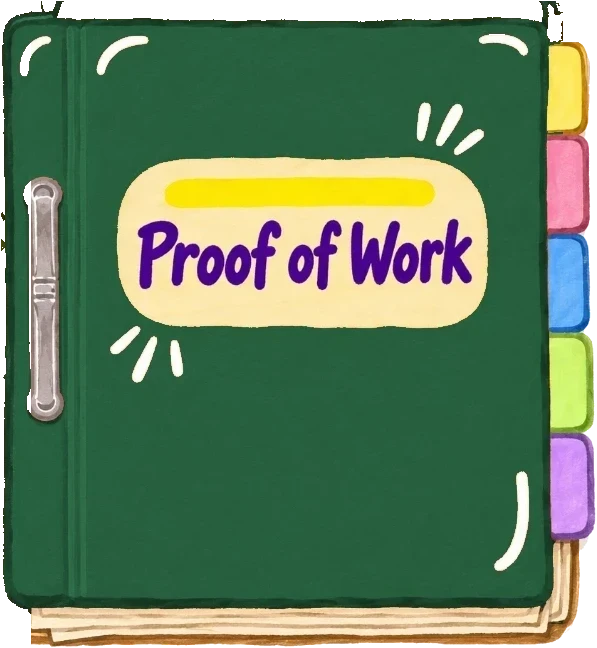
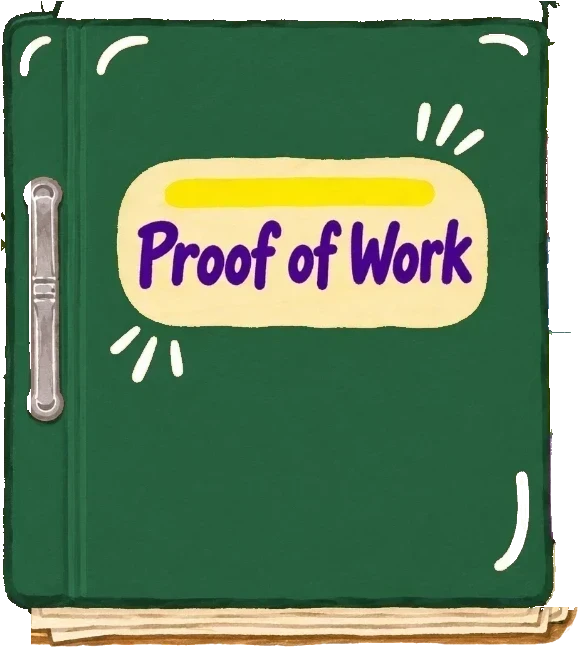
Painted paper pages; side tabs removed
- Project pages, cards, sheets, polaroids and sticky notes use hand-painted paper skins
  (binder/paint-*.webp) matching the desk art
- Side tabs removed from the desk folder art and the open folder
- Film strip gets painted, outlined edges

diff --git a/index.html b/index.html
@@ -244,6 +244,28 @@ p{margin:0} h1,h2,h3,h4{margin:0;font-weight:400;text-wrap:balance} ul,ol{list-s
   box-shadow:2px 3px 0 rgba(40,18,4,.18);transform:rotate(-1.2deg);align-items:center}
 .kcard .step.sticker{border-color:var(--ink)}
 
+/* ---- painted paper: the inside pages, cards, sheets, polaroids and notes are skinned with real
+   hand-painted paper (binder/paint-*.webp, painted to match the desk art) instead of CSS boxes.
+   border-image 9-slices each piece, so the wobbly outline, rounded corners and white highlight
+   strokes stay crisp at any size while the middle stretches. */
+.page.collage{background:url(binder/paint-kraft.webp) center/100% 100% no-repeat!important;box-shadow:none!important}
+.collage .kcard,.collage .sheet,.collage .scrap,.collage .polaroid,.collage .step.sticker{
+  background:none;border:calc(var(--u)*3.2) solid transparent;border-image:url(binder/paint-card.webp) 64 fill / calc(var(--u)*3.2) stretch;
+  border-radius:0;box-shadow:none;filter:drop-shadow(4px 6px 0 rgba(30,14,6,.28))}
+.collage .kcard{padding:calc(var(--u)*1.6) calc(var(--u)*1.2) calc(var(--u)*.8)}
+.collage .sheet{padding:calc(var(--u)*3) calc(var(--u)*1.6) calc(var(--u)*1.6) calc(var(--u)*4.4)}
+.collage .sheet::before,.collage .sheet::after{left:calc(var(--u)*.6);border:2px solid #4a2c12;background:#8a5a2b;box-shadow:inset 1px 2px 2px rgba(0,0,0,.45)}
+.collage .polaroid{border-width:calc(var(--u)*1.9);border-image-width:calc(var(--u)*1.9);border-image-slice:64 fill;padding:calc(var(--u)*.4) calc(var(--u)*.4) 0;filter:drop-shadow(3px 5px 0 rgba(30,14,6,.26))}
+.collage .polaroid .ph{border:2px solid #4a2c12;border-radius:4px}
+.collage .scrap{padding:calc(var(--u)*1.2) calc(var(--u)*1.4)}
+.collage .step.sticker{border-width:calc(var(--u)*1.8);border-image-width:calc(var(--u)*1.8);border-image-slice:64 fill;padding:0 calc(var(--u)*.6)}
+.collage .sticky{background:none;border:calc(var(--u)*2.2) solid transparent;border-image:url(binder/paint-note.webp) 60 fill / calc(var(--u)*2.6) stretch;
+  border-radius:0;box-shadow:none;padding:calc(var(--u)*1.2) calc(var(--u)*1.4);filter:drop-shadow(3px 5px 0 rgba(30,14,6,.26))}
+/* lined cards keep their ruled lines, drawn just above the painted paper and below the text */
+.collage .kcard.lined::after{content:"";position:absolute;inset:calc(var(--u)*-.4) calc(var(--u)*-.2);z-index:-1;pointer-events:none;
+  background:repeating-linear-gradient(transparent 0 calc(var(--u)*4.4 - 1px),rgba(70,110,170,.2) calc(var(--u)*4.4 - 1px) calc(var(--u)*4.4)) 0 calc(var(--u)*1.6)}
+.collage .strip{border:2.5px solid #2a1a0a;border-radius:8px 6px 9px 5px;background:#3a302a;filter:drop-shadow(3px 5px 0 rgba(30,14,6,.26));box-shadow:none}.collage .strip i{border-radius:3px;border:1.5px solid #1a120a}
+
 .leaf{position:absolute;top:0;left:calc(50% + var(--gap) / 2);width:var(--pw);height:100%;transform-origin:calc(var(--gap) / -2) 50%;transform-style:preserve-3d;
   transition:transform .95s cubic-bezier(.645,.045,.355,1);cursor:pointer}
 .leaf.flipped{transform:rotateY(-180deg)}
@@ -287,6 +309,7 @@ p{margin:0} h1,h2,h3,h4{margin:0;font-weight:400;text-wrap:balance} ul,ol{list-s
    rotates away with it; what rotates into view on the back is the same flap's blank reverse,
    a plain paper tab with no writing, on the left edge where the sheet now sits. Hidden on the
    closed cover. */
+/* side tabs removed (the folder has no index tabs any more); page turns, keys and swipe still navigate */.tab,.tab-back{display:none!important}
 .tab,.tab-back{position:absolute;width:34px;top:var(--t);height:var(--h);display:flex;align-items:center;justify-content:center;text-align:center;
   background:linear-gradient(color-mix(in srgb,var(--tc,#f3ead2) 92%,transparent),color-mix(in srgb,var(--tc,#f3ead2) 92%,transparent)),var(--paper) url(binder/paper.webp) 0 0/360px 360px;font-family:var(--mono);font-weight:700;font-size:9.5px;letter-spacing:.12em;text-transform:uppercase;writing-mode:vertical-rl;color:color-mix(in srgb,var(--tc,#8a4a17) 30%,#1c1208);
   border:2.5px solid color-mix(in srgb,var(--tc,#8a4a17) 50%,#2a1a0a);backface-visibility:hidden;-webkit-backface-visibility:hidden;
@@ -874,7 +897,7 @@ dl.cred dd{margin:0;font-size:calc(var(--u)*2.2)}
   <div class="desk-item" data-hint="Ideas live in here" style="--fx:0.258;--fy:0.3818;--fw:0.125;--mfx:0.4258;--mfy:0.7095;--r:-9deg;z-index:3" aria-hidden="true"><img src="desk/sketchbook.webp" alt="" draggable="false"></div>
   <div class="desk-item" data-hint="First sketch, ever" style="--fx:0.6985;--fy:0.2626;--fw:0.109;--mfx:0.0949;--mfy:0.7683;--r:5deg;z-index:4" aria-hidden="true"><img src="desk/pad.webp" alt="" draggable="false"></div>
   <div class="desk-item ruler" data-hint="Measure twice, drag once" style="z-index:5" aria-hidden="true"><img src="desk/ruler.webp" alt="" draggable="false"></div>
-  <div class="desk-item" data-book="1" data-hint="Open me, the proof's inside" style="--fx:0.4606;--fy:0.0822;--fw:0.162;--mfx:0.0926;--mfy:0.3173;--r:4deg;z-index:6" role="button" tabindex="0" aria-label="Open the Proof of Work folder"><img src="desk/folder.webp" alt="" draggable="false"></div>
+  <div class="desk-item" data-book="1" data-hint="Open me, the proof's inside" style="--fx:0.4606;--fy:0.0822;--fw:0.157;--mfx:0.0926;--mfy:0.3173;--r:4deg;z-index:6" role="button" tabindex="0" aria-label="Open the Proof of Work folder"><img src="desk/folder.webp" alt="" draggable="false"></div>
   <div class="desk-item pencil-anchor" data-pencils style="--fx:0.761;--fy:0.6553;--fw:0.09;--mfx:0.4735;--mfy:0.8124;--r:70deg;z-index:7" aria-hidden="true"></div>
   <div class="pencil" data-hint="Give it a roll" data-u=".1844" data-v=".5315" data-a="-9.52" data-w=".2624" data-h=".9133" aria-hidden="true"><div class="pencil-body" style="--m:url(desk/pencil-red.webp)"><img src="desk/pencil-red.webp" alt="" draggable="false"><i class="pencil-shade"></i></div></div>
   <div class="pencil" data-hint="Give it a roll" data-u=".4858" data-v=".4505" data-a="2.43" data-w=".2426" data-h=".9133" aria-hidden="true"><div class="pencil-body" style="--m:url(desk/pencil-green.webp)"><img src="desk/pencil-green.webp" alt="" draggable="false"><i class="pencil-shade"></i></div></div>
@@ -949,9 +972,9 @@ dl.cred dd{margin:0;font-size:calc(var(--u)*2.2)}
     }
     var br=book.getBoundingClientRect(), cr=cover.getBoundingClientRect();
     var bw=img.offsetWidth, bh=img.offsetHeight, R=parseFloat(getComputedStyle(book).getPropertyValue('--r'))||0;
-    // in desk/folder.webp the cover board spans x 0.8%..91.8% (the coloured index tabs stick out to its
+    // in desk/folder.webp the cover board spans x 0.8%..94.6% (only cream page edges show to its
     // right) and its top edge sits 2.8% down: line those up with the binder cover
-    var W=cr.width/.91, H=W*bh/bw, L=cr.left-.008*W, T=cr.top-.028*H;
+    var W=cr.width/.94, H=W*bh/bw, L=cr.left-.008*W, T=cr.top-.028*H;
     var fly=document.createElement('img');
     fly.src=img.currentSrc||img.src; fly.alt=''; fly.setAttribute('aria-hidden','true');
     fly.style.cssText='position:fixed;z-index:2000;pointer-events:none;margin:0;left:'+L+'px;top:'+T+'px;width:'+W+'px;height:'+H+'px;'+
